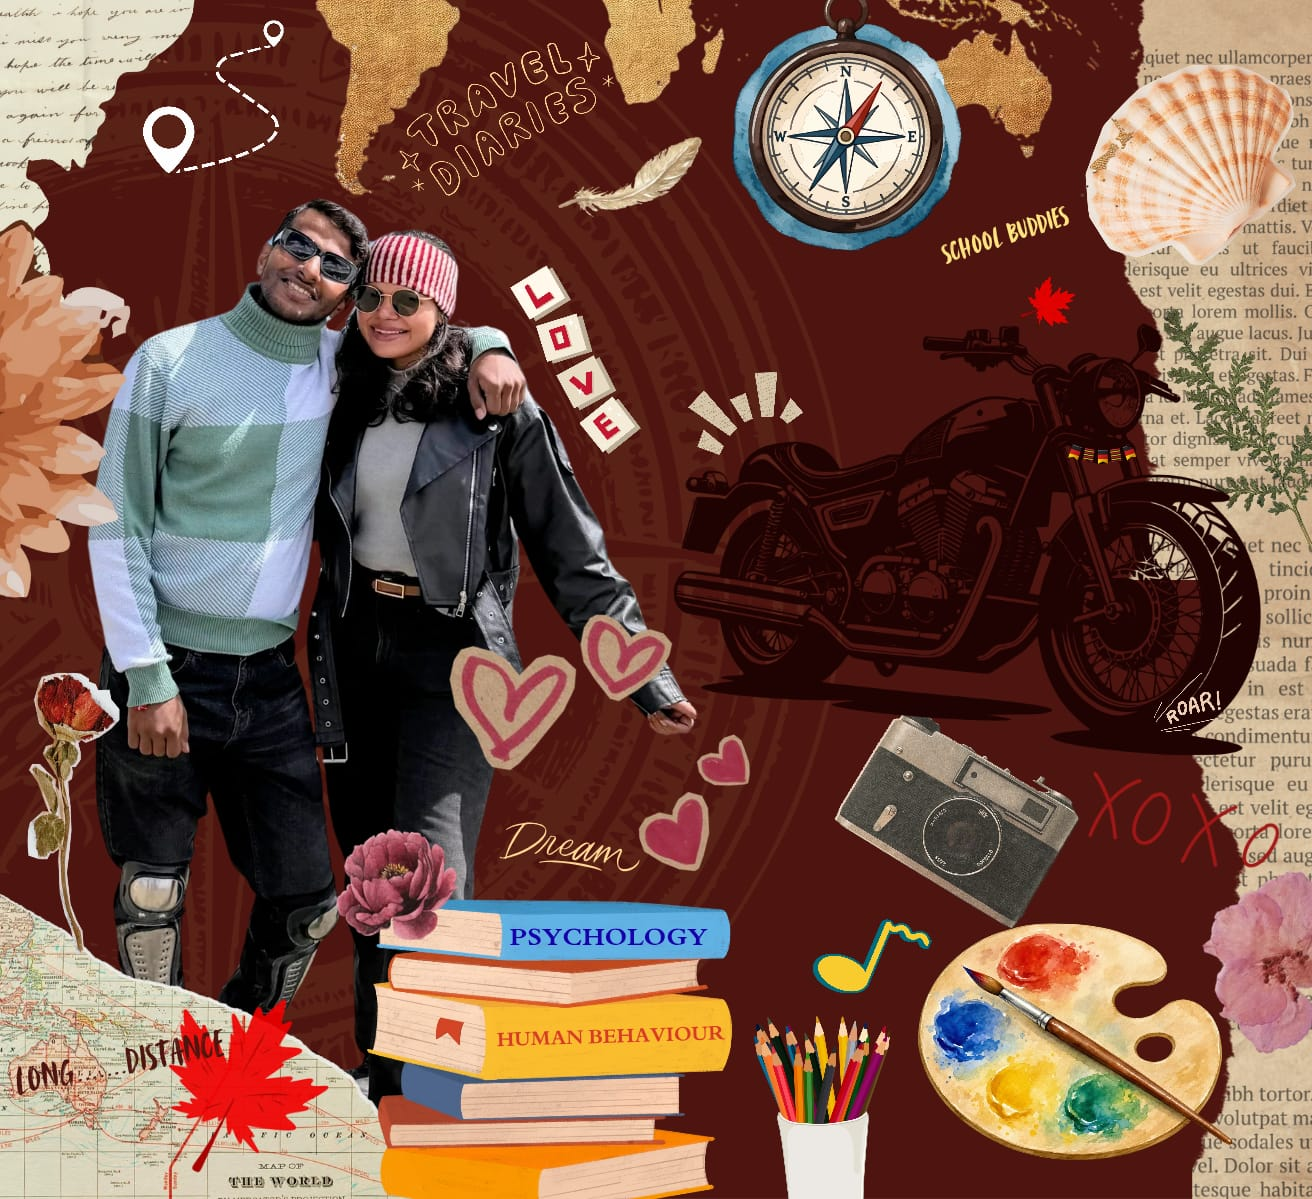
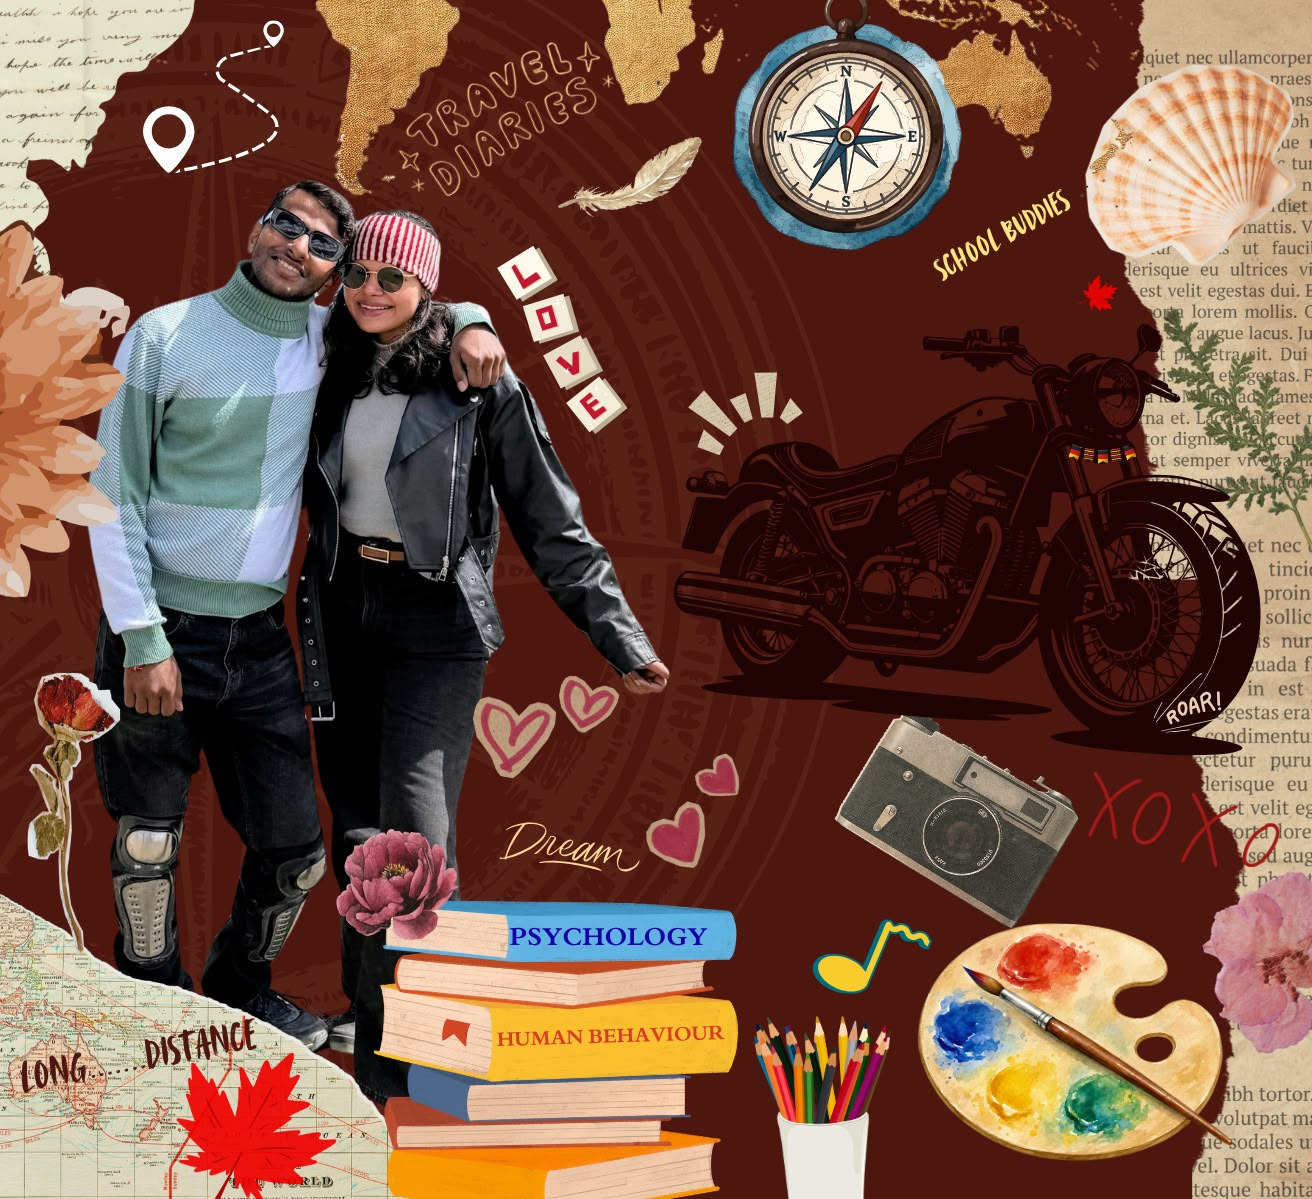
Simplify memories gallery to three photos

diff --git a/index.html b/index.html
@@ -920,6 +920,17 @@
       .gallery-photo.is-portrait { grid-column: span 3; grid-row: span 4; }
       .gallery-photo.is-landscape { grid-column: span 6; grid-row: span 3; }
       .gallery-photo.is-square { grid-column: span 4; grid-row: span 4; }
+      .journey-gallery.gallery-three {
+        grid-template-columns: repeat(3, minmax(0, 1fr));
+        grid-auto-rows: auto;
+      }
+      .gallery-three .gallery-photo,
+      .gallery-three .gallery-photo:nth-child(n) {
+        grid-column: auto;
+        grid-row: auto;
+        min-height: 0;
+        aspect-ratio: 4 / 5;
+      }
       .gallery-photo img {
         display: block;
         width: 100%;
@@ -1053,7 +1064,7 @@
       footer > p:first-child { margin: 0 0 18px; color: var(--saffron); opacity: 1; }
       footer .footer-honorees {
         margin: -2px 0 4px;
-        font-size: clamp(.76rem, 1.4vw, .9rem);
+        font-size: clamp(.92rem, 1.8vw, 1.15rem);
         line-height: 1.7;
         letter-spacing: .1em;
         text-transform: none;
@@ -1338,6 +1349,24 @@
           grid-column: span 1;
           grid-row: auto;
         }
+        .journey-gallery.gallery-three {
+          display: flex;
+          grid-template-columns: none;
+          grid-auto-rows: initial;
+        }
+        .gallery-three .gallery-set-single {
+          display: block;
+          flex: 0 0 min(84vw, 390px);
+          scroll-snap-align: start;
+          scroll-snap-stop: always;
+        }
+        .gallery-three .gallery-set-single .gallery-photo,
+        .gallery-three .gallery-set-single .gallery-photo:nth-child(n) {
+          width: 100%;
+          min-height: 0;
+          aspect-ratio: 4 / 5;
+          border-width: 4px;
+        }
         .gallery-photo.photo-tight-crop {
           --photo-scale: 2.1;
           --photo-hover-scale: 2.18;
@@ -1491,7 +1520,7 @@
       </svg>
       <div class="hero-content reveal">
         <div class="hero-intro">
-          <p class="reception-invite">With the blessings of<br /><span class="blessing-names">Visal Mata &ensp;<span class="blessing-join">and</span>&ensp;Mamal Mata,</span><br />we invite you to celebrate<br />the wedding reception of</p>
+          <p class="reception-invite">With the blessings of<br /><span class="blessing-names">Visal Mata<span class="blessing-join">and</span>Mamal Mata,</span><br /><br/>We invite you to celebrate<br />the wedding reception of</p>
         </div>
         <h1 id="couple-names" tabindex="-1">
           <span class="name-group">
@@ -1548,39 +1577,17 @@
         </div>
         <div class="gallery-swipe-cue" aria-hidden="true">
           <span class="gallery-swipe-label">Swipe to explore <span class="gallery-swipe-arrow">↔</span></span>
-          <span class="gallery-dots"><span class="gallery-dot is-active"></span><span class="gallery-dot"></span><span class="gallery-dot"></span><span class="gallery-dot"></span><span class="gallery-dot"></span></span>
+          <span class="gallery-dots"><span class="gallery-dot is-active"></span><span class="gallery-dot"></span><span class="gallery-dot"></span></span>
         </div>
-        <div class="journey-gallery" aria-label="Our memories photo gallery">
-          <div class="gallery-set" role="group" aria-label="Memories 1 to 5">
-          <figure class="gallery-photo is-square reveal"><img src="assets/memories/School Days - 1.jpeg" alt="Anuj and Drashti — School Days" loading="lazy" decoding="async" /><figcaption>School Days</figcaption></figure>
-          <figure class="gallery-photo is-portrait reveal"><img src="assets/memories/Navratri Days - 1.jpeg" alt="Anuj and Drashti — Navratri" loading="lazy" decoding="async" /><figcaption>Navratri</figcaption></figure>
-          <figure class="gallery-photo is-portrait reveal"><img src="assets/memories/Navratri Days - 2.jpeg" alt="Anuj and Drashti — Navratri" loading="lazy" decoding="async" /><figcaption>Navratri</figcaption></figure>
-          <figure class="gallery-photo is-landscape reveal"><img src="assets/memories/Beach Days.jpeg" alt="Anuj and Drashti — Beach Days" loading="lazy" decoding="async" /><figcaption>Beach Days</figcaption></figure>
-          <figure class="gallery-photo is-square reveal"><img src="assets/memories/College Days - 1.jpeg" alt="Anuj and Drashti — College Days" loading="lazy" decoding="async" /><figcaption>College Days</figcaption></figure>
+        <div class="journey-gallery gallery-three" aria-label="Our memories photo gallery">
+          <div class="gallery-set gallery-set-single" role="group" aria-label="Kedarnath memory">
+            <figure class="gallery-photo reveal"><img src="assets/memories/Kedarnath.jpeg" alt="Anuj and Drashti at Kedarnath" loading="lazy" decoding="async" /><figcaption>Kedarnath</figcaption></figure>
           </div>
-          <div class="gallery-set gallery-set-four" role="group" aria-label="Memories 6 to 9">
-          <figure class="gallery-photo is-portrait reveal"><img src="assets/memories/Snacking.jpeg" alt="Anuj and Drashti — Snacking" loading="lazy" decoding="async" /><figcaption>Snacking</figcaption></figure>
-          <figure class="gallery-photo is-portrait reveal"><img src="assets/memories/Snacking 2.jpeg" alt="Anuj and Drashti — Snacking" loading="lazy" decoding="async" /><figcaption>Snacking</figcaption></figure>
-          <figure class="gallery-photo is-portrait reveal"><img src="assets/memories/Manali Trip 1.jpeg" alt="Anuj and Drashti — Manali Trip" loading="lazy" decoding="async" /><figcaption>Manali Trip</figcaption></figure>
-          <figure class="gallery-photo is-portrait reveal" style="--focus-y: 14%;"><img src="assets/memories/Manali Trip 2.jpeg" alt="Anuj and Drashti — Manali Trip" loading="lazy" decoding="async" /><figcaption>Manali Trip</figcaption></figure>
+          <div class="gallery-set gallery-set-single" role="group" aria-label="Leh memory">
+            <figure class="gallery-photo reveal"><img src="assets/memories/Leh.jpeg" alt="Anuj and Drashti in Leh" loading="lazy" decoding="async" /><figcaption>Leh</figcaption></figure>
           </div>
-          <div class="gallery-set gallery-set-four" role="group" aria-label="Memories 10 to 13">
-          <figure class="gallery-photo is-portrait reveal" style="--focus-y: 14%;"><img src="assets/memories/Manali Trip 3.jpeg" alt="Anuj and Drashti — Manali Trip" loading="lazy" decoding="async" /><figcaption>Manali Trip</figcaption></figure>
-          <figure class="gallery-photo is-portrait reveal"><img src="assets/memories/Manali Trip 4.jpeg" alt="Anuj and Drashti — Manali Trip" loading="lazy" decoding="async" /><figcaption>Manali Trip</figcaption></figure>
-          <figure class="gallery-photo is-landscape reveal"><img src="assets/memories/Match Day.jpeg" alt="Anuj and Drashti — Match Day" loading="lazy" decoding="async" /><figcaption>Match Day</figcaption></figure>
-          <figure class="gallery-photo is-portrait reveal"><img src="assets/memories/Long Distance 1.jpeg" alt="Anuj and Drashti — Long Distance" loading="lazy" decoding="async" /><figcaption>Long Distance</figcaption></figure>
-          </div>
-          <div class="gallery-set gallery-set-four" role="group" aria-label="Memories 14 to 17">
-          <figure class="gallery-photo is-portrait photo-tight-crop reveal" style="--focus-y: 36%;"><img src="assets/memories/Long Distance 2.jpeg" alt="Anuj and Drashti — Long Distance" loading="lazy" decoding="async" /><figcaption>Long Distance</figcaption></figure>
-          <figure class="gallery-photo is-square reveal"><img src="assets/memories/Kedarnath.jpeg" alt="Anuj and Drashti — Kedarnath" loading="lazy" decoding="async" /><figcaption>Kedarnath</figcaption></figure>
-          <figure class="gallery-photo is-landscape reveal"><img src="assets/memories/Bike Ride 1.jpeg" alt="Anuj and Drashti — Bike Ride" loading="lazy" decoding="async" /><figcaption>Bike Ride</figcaption></figure>
-          <figure class="gallery-photo is-landscape reveal"><img src="assets/memories/Bike Ride 2.jpeg" alt="Anuj and Drashti — Bike Ride" loading="lazy" decoding="async" /><figcaption>Bike Ride</figcaption></figure>
-          </div>
-          <div class="gallery-set gallery-set-four" role="group" aria-label="Memories 18 to 21">
-          <figure class="gallery-photo is-portrait reveal"><img src="assets/memories/Leh Trip 1.jpeg" alt="Anuj and Drashti — Leh Trip" loading="lazy" decoding="async" /><figcaption>Leh Trip</figcaption></figure>
-          <figure class="gallery-photo is-portrait reveal"><img src="assets/memories/Leh Trip 2.jpeg" alt="Anuj and Drashti — Leh Trip" loading="lazy" decoding="async" /><figcaption>Leh Trip</figcaption></figure>
-          <figure class="gallery-photo is-landscape reveal"><img src="assets/memories/Safari Time 1.jpeg" alt="Anuj and Drashti — Safari Time" loading="lazy" decoding="async" /><figcaption>Safari Time</figcaption></figure>
-          <figure class="gallery-photo is-landscape reveal"><img src="assets/memories/Safari Time 2.jpeg" alt="Anuj and Drashti — Safari Time" loading="lazy" decoding="async" /><figcaption>Safari Time</figcaption></figure>
+          <div class="gallery-set gallery-set-single" role="group" aria-label="Marines memory">
+            <figure class="gallery-photo reveal"><img src="assets/memories/Marines.jpeg" alt="Anuj and Drashti at Marine Drive" loading="lazy" decoding="async" /><figcaption>Marines</figcaption></figure>
           </div>
         </div>
       </section>
@@ -1630,7 +1637,7 @@
 
     </main>
 
-    <footer><p>Awaiting your joyous presence</p><p class="footer-honorees">Karan Gajesh Dedhia <span class="simple-amp">&amp;</span> Prisha Heena Hardik Gala</p><p class="footer-along">along with the</p><div class="footer-names">Dedhia <span class="simple-amp">&amp;</span> Gala</div><p class="footer-family">Family</p><p>18 · 12 · 2026 — Mumbai</p></footer>
+    <footer><p>Awaiting your joyous presence</p><p class="footer-honorees">Karan Gajesh Dedhia <span class="simple-amp">&amp;</span> Prisha Heena Hardik Gala</p><p class="footer-along">along with</p><div class="footer-names">Dedhia <span class="simple-amp">&amp;</span> Gala</div><p class="footer-family">Family</p><p>18 · 12 · 2026 — Mumbai</p></footer>
 
     <script>
       const gate = document.getElementById('invitation-gate');
